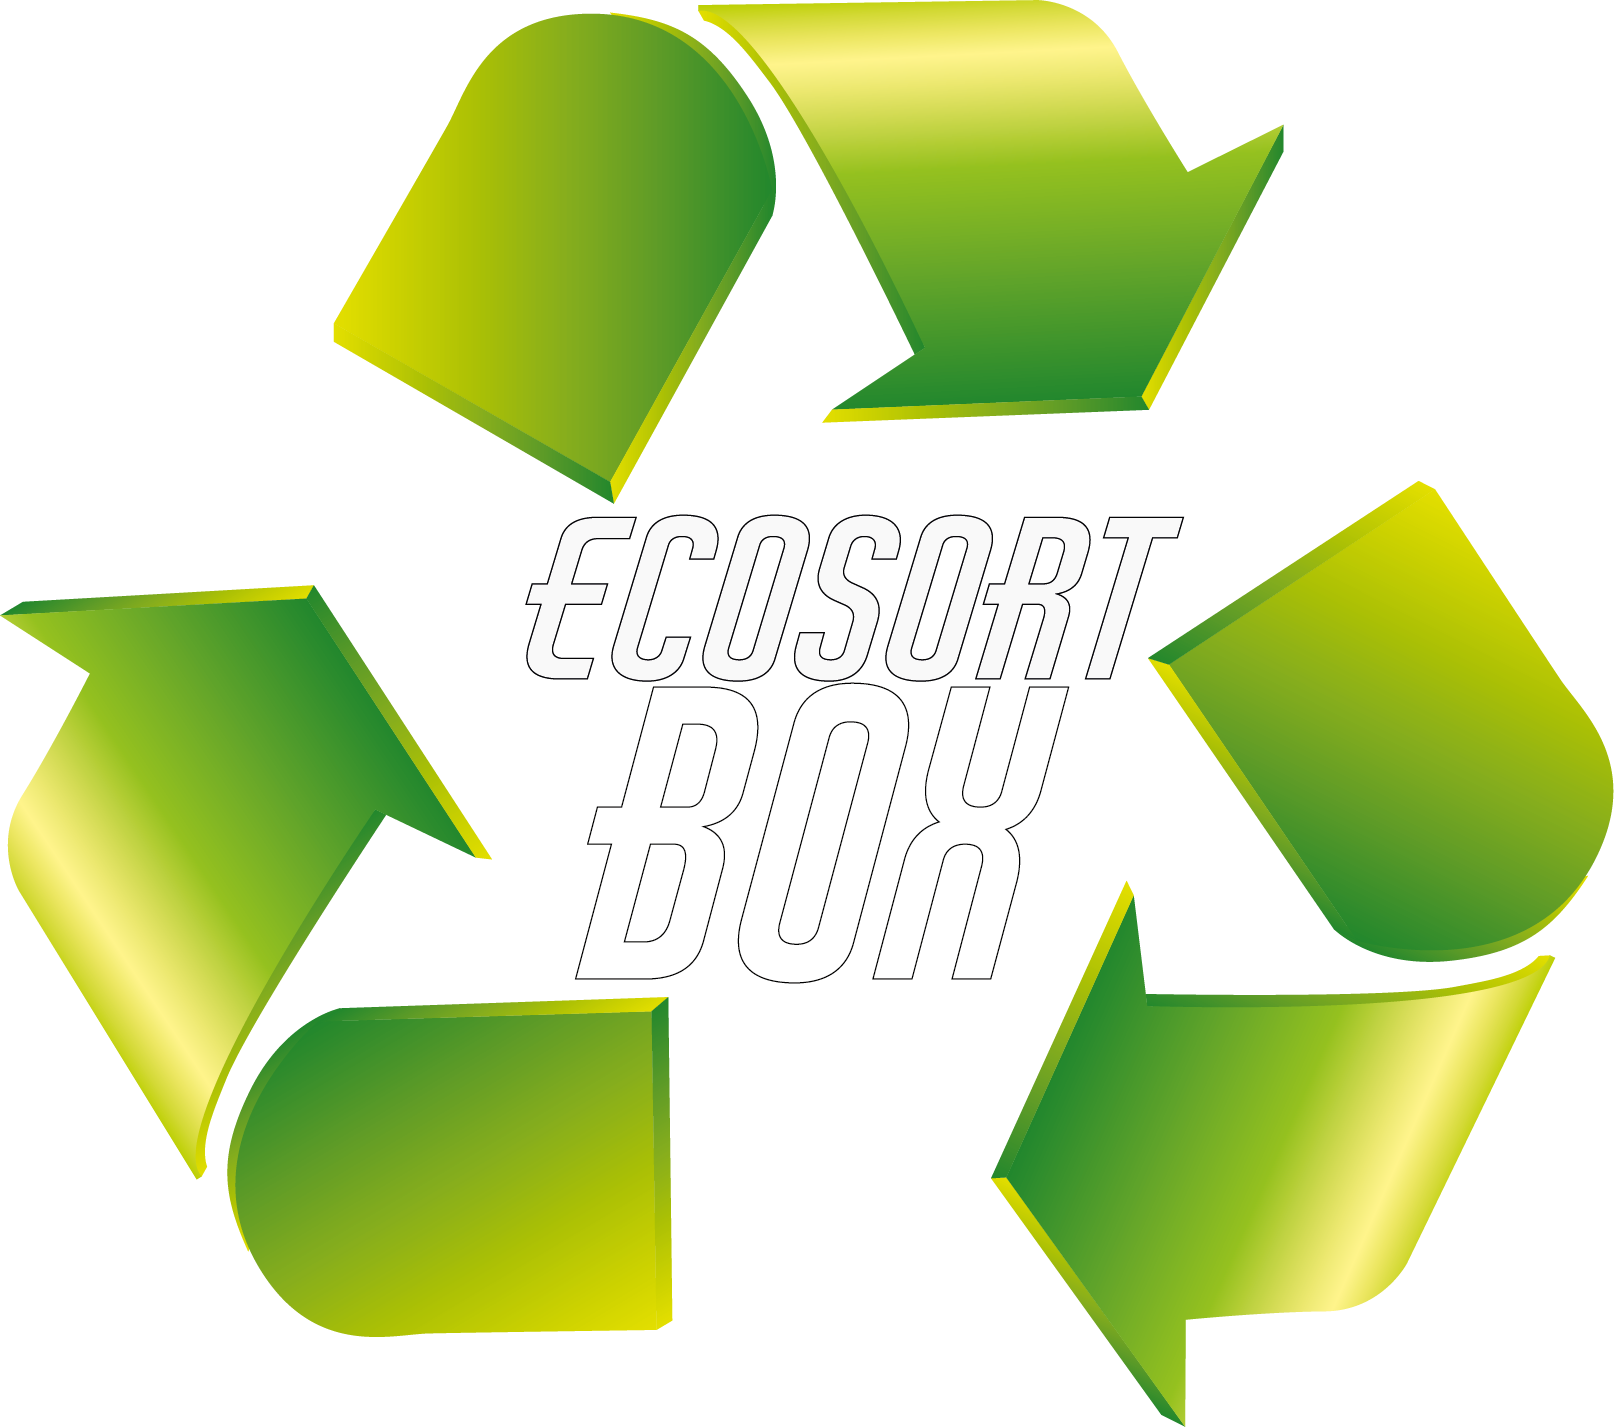
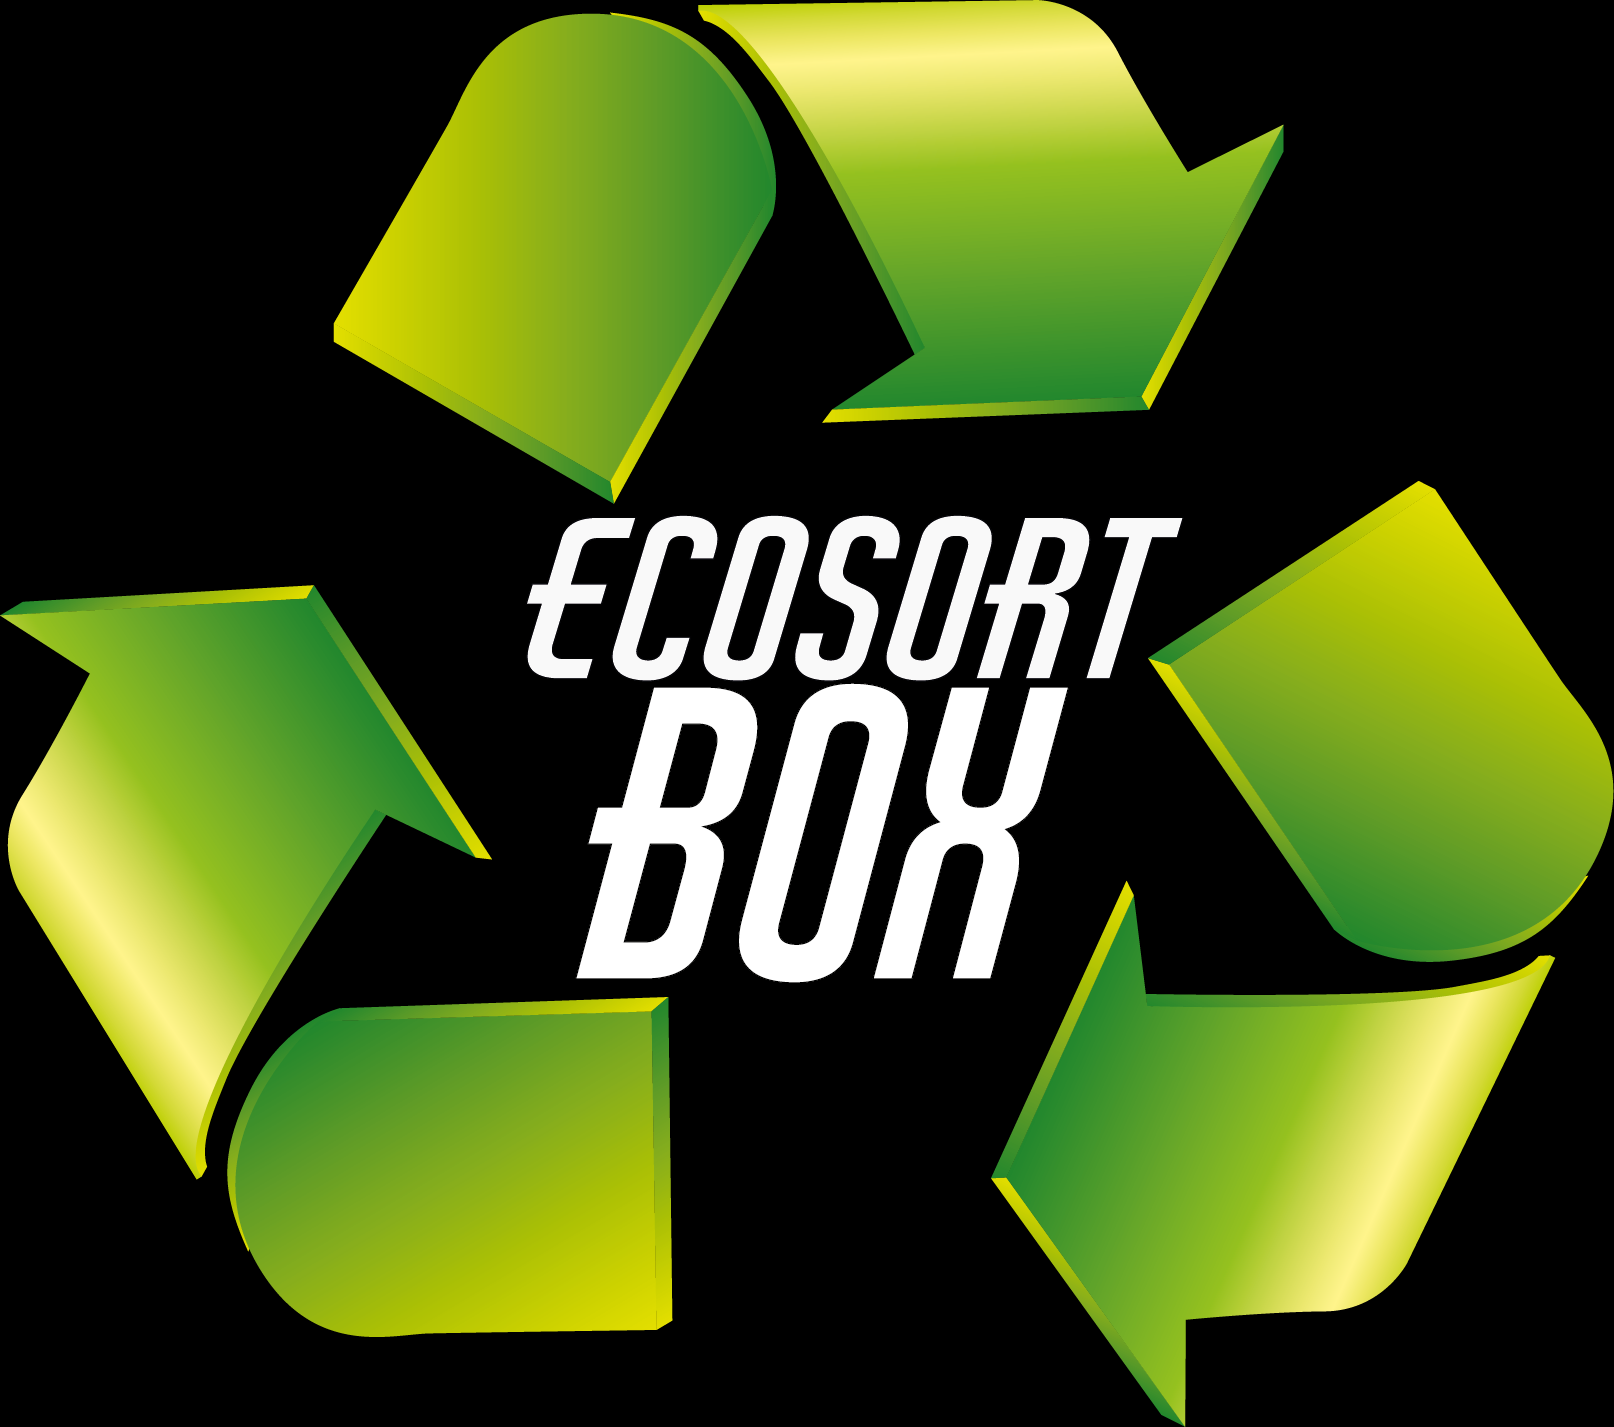
Ajout de vidéo demo

diff --git a/README.md b/README.md
@@ -4,6 +4,13 @@ Application web d'aide au tri sélectif : l'utilisateur cherche un produit (ou e
 
 Interface façon chat (Django + JavaScript vanilla) avec trois thèmes d'affichage (jour, nuit, dégradé de gris), scraping Jumia et classification deep learning intégrés en modules Python internes.
 
+
+### 🎬 Démo
+
+[![Regarder la démo](https://img.youtube.com/vi/16DIoT1YlXU/hqdefault.jpg)](https://www.youtube.com/watch?v=16DIoT1YlXU)
+
+*Clique sur l'image pour lancer la vidéo (YouTube, nouvel onglet).*
+
 ## Lancer l'application
 
 Avec Docker (recommandé — c'est le mode d'évaluation) :